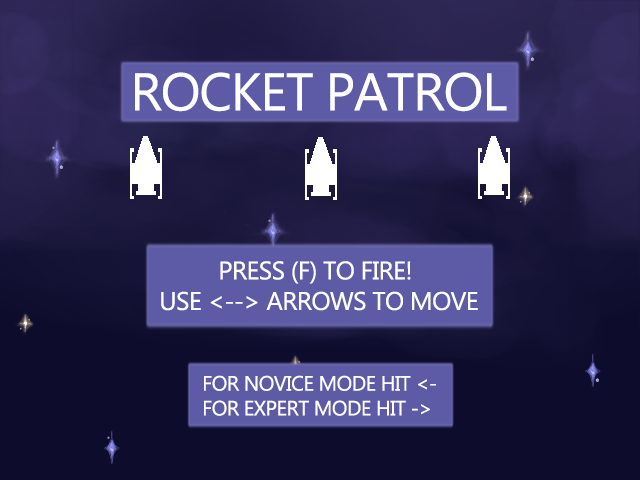
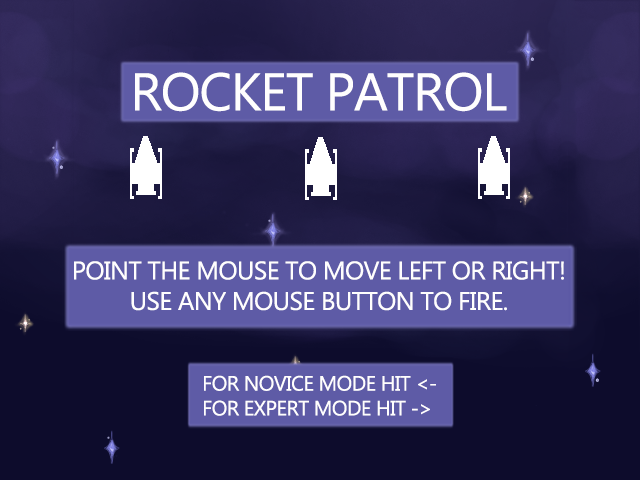
added new ship

Changed region(s): [[0.0938, 0.5, 0.9062, 0.6875]]

diff --git a/src/scenes/Play.js b/src/scenes/Play.js
@@ -7,6 +7,8 @@ class Play extends Phaser.Scene {
         // load images/tile sprites
         this.load.image('rocket', './assets/rocket.png');
         this.load.image('spaceship', './assets/spaceship.png');
+        //new spaceship
+        this.load.image('spaceship2', './assets/spaceship2.png');
         //new starfield made by me 
         this.load.image('starfield', './assets/starfield.png');
         // load spritesheet for explosion
@@ -48,7 +50,8 @@ class Play extends Phaser.Scene {
         keyRIGHT = this.input.keyboard.addKey(Phaser.Input.Keyboard.KeyCodes.RIGHT);
         // add three spaceships
         this.ship01 = new Spaceship(this, game.config.width + borderUISize*6, borderUISize*4, 'spaceship', 0, 30).setOrigin(0, 0);
-        this.ship02 = new Spaceship(this, game.config.width + borderUISize*3, borderUISize*5 + borderPadding*2, 'spaceship', 0, 20).setOrigin(0,0);
+        // add new spaceship
+        this.ship02 = new Spaceship2(this, game.config.width + borderUISize*3, borderUISize*5 + borderPadding*2, 'spaceship2', 0, 20).setOrigin(0,0);
         this.ship03 = new Spaceship(this, game.config.width, borderUISize*6 + borderPadding*4, 'spaceship', 0, 10).setOrigin(0,0);
         //animation configuration
         this.anims.create({

diff --git a/src/prefabs/Rocket.js b/src/prefabs/Rocket.js
@@ -10,7 +10,7 @@ class Rocket extends Phaser.GameObjects.Sprite {
       this.sfxRocket = scene.sound.add('sfx_rocket'); // add rocket sfx
     }
     update() {
-      //left and right movement
+      //left and right movement with mouse, not keys
       if(!this.isFiring) {
         if(game.input.mousePointer.x < this.x && this.x >= borderUISize + this.width) {
           this.x -= this.moveSpeed;
@@ -18,7 +18,7 @@ class Rocket extends Phaser.GameObjects.Sprite {
           this.x += this.moveSpeed;
         }
       }
-      //fire button
+      //fire button with any mouse button
       if (game.input.mousePointer.isDown && !this.isFiring) {
         this.isFiring = true;
         this.sfxRocket.play();  // play sfx

diff --git a/src/prefabs/Spaceship2.js b/src/prefabs/Spaceship2.js
@@ -1,0 +1,22 @@
+//Spaceship prefabs
+class Spaceship2 extends Phaser.GameObjects.Sprite {
+    constructor(scene, x, y, texture, frame, pointValue) {
+        super(scene, x, y, texture, frame);
+        scene.add.existing(this); //add to existing scene
+        this.points = pointValue; //store pointvalue
+        //this.moveSpeed = game.settings.spaceshipSpeed; //pixels per frame
+    }
+
+    update() {
+        //move spaceship left
+        this.x -= 5;
+        //wrap around from left edge to right edge
+        if(this.x <= 0 - this.width + borderUISize) {
+            this.x = game.config.width;
+        }
+    }
+    //reset the position
+    reset() {
+        this.x = game.config.width;
+    }
+}

diff --git a/index.html b/index.html
@@ -15,6 +15,7 @@
     <script src="./lib/phaser.js"></script>
     <script src="./src/prefabs/Rocket.js"></script>
     <script src="./src/prefabs/Spaceship.js"></script>
+    <script src="./src/prefabs/Spaceship2.js"></script>
     <script src="./src/scenes/Menu.js"></script>
     <script src="./src/scenes/Play.js"></script>
     <script src = "./src/main.js"></script>

diff --git a/src/main.js b/src/main.js
@@ -5,7 +5,7 @@ let config = {
     height: 480,
     scene: [ Menu, Play ] //puts the diff scenes we have in the scene array
   }
-//reservekeyboard vars
+//reservekeyboard vars (no longer needed)
 let keyF, keyR, keyLEFT, keyRIGHT;
 let game = new Phaser.Game(config);
 
